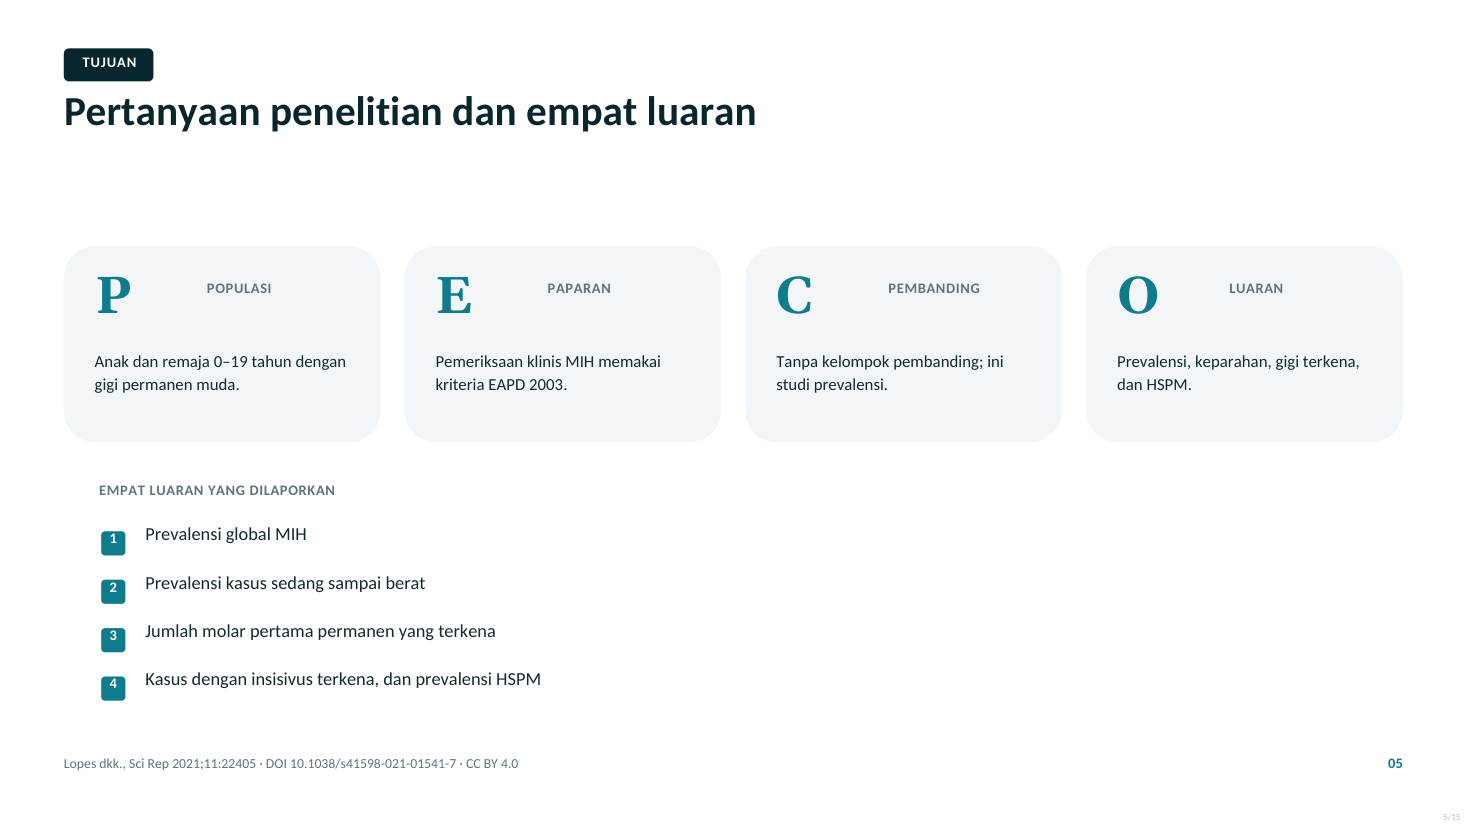
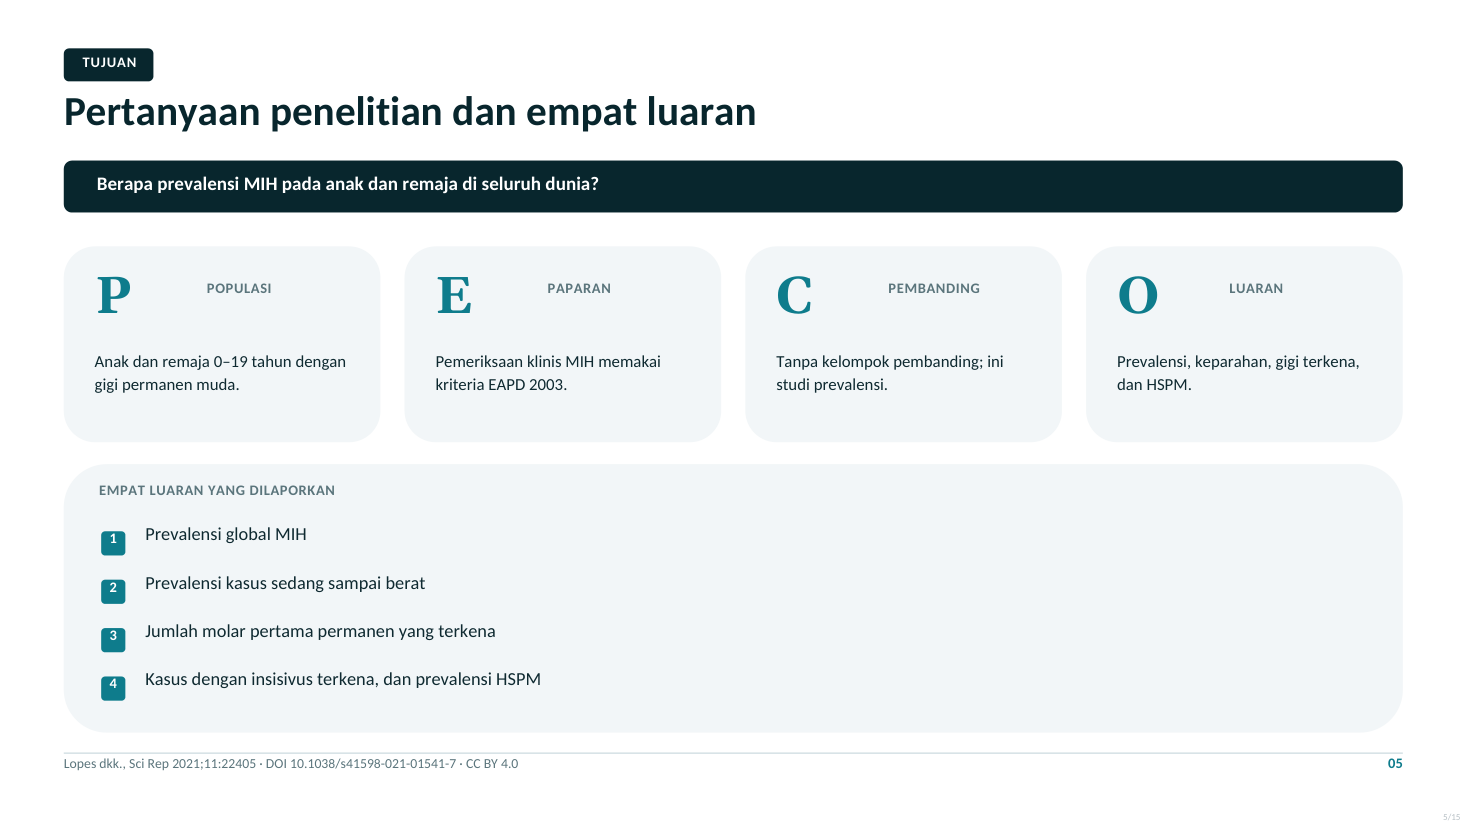
renderer: honour picture crops, stop treating full-width strips as page background
Two fixes to the renderer that v5 inherited from v4:

- draw_picture now reads the srcRect crop fractions and clips the oversized image
  back to the frame the way PowerPoint does, instead of stretching the whole
  bitmap into the shape
- background detection required only a full-width shape, so any full-width strip
  (banner, band, footer rule) was skipped as if it were the page background and
  vanished from the preview along with its text; it now needs to cover the page
  on both axes

Regenerated the 15-slide contact sheet with the corrected renderer; the deck
itself is unchanged (437 objects, 0 errors, no text overflow).

Changed region(s): [[0.0307, 0.1818, 0.9816, 0.2727]]

diff --git a/research/pediatric-dentistry-2021-2026/deck-mih-lopes-2021/render_deck.py b/research/pediatric-dentistry-2021-2026/deck-mih-lopes-2021/render_deck.py
@@ -273,26 +273,57 @@ def draw_text_frame(c, frame, box, bg: str, overflow: list) -> None:
     c.restoreState()
 
 
-def draw_picture(c, shape, slide_h) -> None:
-    """Place an embedded image at its box, honouring the slide's own scaling."""
+PICTURE_CACHE: dict[str, str] = {}
+
+
+def draw_picture(c, shape, top_h: float) -> None:
+    """Draw an embedded picture, honouring PowerPoint's crop fractions.
+
+    A cropped picture is rendered by drawing it oversized and clipping back to the
+    frame, which is how PowerPoint treats srcRect.
+    """
+    import hashlib
+
     try:
-        image = shape.image
+        blob = shape.image.blob
+        ext = shape.image.ext
     except Exception:
         return
-    suffix = "." + (image.ext or "png")
-    tmp = Path(tempfile.gettempdir()) / f"render-{abs(hash(image.blob))}{suffix}"
-    if not tmp.exists():
-        tmp.write_bytes(image.blob)
-    x = shape.left / EMU_IN * PT_IN
-    y = slide_h - shape.top / EMU_IN * PT_IN - shape.height / EMU_IN * PT_IN
-    w = shape.width / EMU_IN * PT_IN
-    h = shape.height / EMU_IN * PT_IN
+    key = hashlib.sha1(blob).hexdigest()[:16] + "." + ext
+    path = PICTURE_CACHE.get(key)
+    if path is None:
+        target = Path(tempfile.gettempdir()) / f"renderimg-{key}"
+        target.write_bytes(blob)
+        PICTURE_CACHE[key] = path = str(target)
+
+    left = shape.left / EMU_IN * PT_IN
+    top = top_h - shape.top / EMU_IN * PT_IN - shape.height / EMU_IN * PT_IN
+    width = shape.width / EMU_IN * PT_IN
+    height = shape.height / EMU_IN * PT_IN
+    crop_l = float(getattr(shape, "crop_left", 0) or 0)
+    crop_r = float(getattr(shape, "crop_right", 0) or 0)
+    crop_t = float(getattr(shape, "crop_top", 0) or 0)
+    crop_b = float(getattr(shape, "crop_bottom", 0) or 0)
+
+    c.saveState()
+    if any((crop_l, crop_r, crop_t, crop_b)):
+        full_w = width / max(0.01, 1 - crop_l - crop_r)
+        full_h = height / max(0.01, 1 - crop_t - crop_b)
+        x0 = left - crop_l * full_w
+        y0 = top - crop_b * full_h
+        clip = c.beginPath()
+        clip.rect(left, top, width, height)
+        c.clipPath(clip, stroke=0, fill=0)
+    else:
+        x0, y0, full_w, full_h = left, top, width, height
     try:
-        pil = Image.open(tmp)
-        c.drawImage(str(tmp), x, y, w, h, mask=None)
-        _ = pil.size
-    except Exception as exc:  # pragma: no cover - diagnostic only
-        print(f"WARNING: could not draw image {tmp.name}: {exc}")
+        c.drawImage(path, x0, y0, full_w, full_h, mask=None)
+    except Exception:
+        c.setFillColor(hex_to_color("#DDDDDD"))
+        box = c.beginPath()
+        box.rect(left, top, width, height)
+        c.drawPath(box, stroke=0, fill=1)
+    c.restoreState()
 
 
 def hex_to_color(value: str) -> Color:
@@ -594,7 +625,8 @@ def main() -> None:
         bg = "#FFFFFF"
         for shape in slide.shapes:
             if shape.shape_type is not None and str(shape.shape_type).startswith("AUTO_SHAPE") \
-                    and shape.width > prs.slide_width * 0.9:
+                    and shape.width > prs.slide_width * 0.98 \
+                    and shape.height > prs.slide_height * 0.98:
                 grad = gradient_stops(shape._element.spPr)
                 if grad:
                     bg = grad[0][0][1]      # darkest stop as the clipping reference
@@ -613,7 +645,8 @@ def main() -> None:
         chart_i = 0
         for shape in slide.shapes:
             if shape.shape_type is not None and str(shape.shape_type).startswith("AUTO_SHAPE") \
-                    and shape.width > prs.slide_width * 0.9:
+                    and shape.width > prs.slide_width * 0.98 \
+                    and shape.height > prs.slide_height * 0.98:
                 continue
             overflow: list[float] = []
             if getattr(shape, "has_chart", False) and shape.has_chart:
